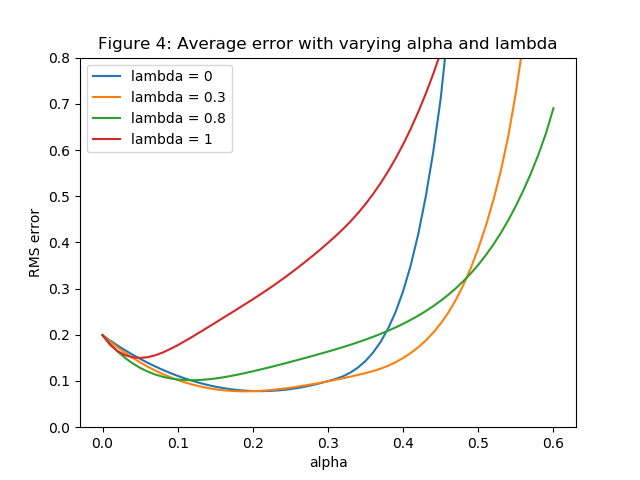
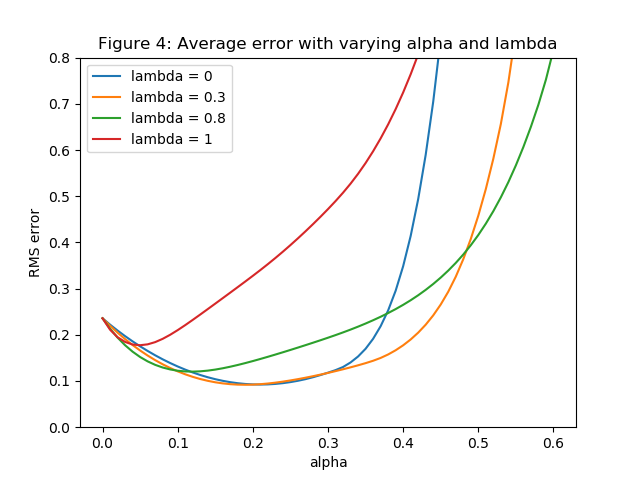
added fig 5

diff --git a/Project_1/p1.py b/Project_1/p1.py
@@ -35,9 +35,9 @@ def computeReturn(vals, i):
 		
 def generateTrainingSets(sets=100, sequences=10):
 	trainingData = []
-	for i in range(0,sets):
+	for i in range(0, sets):
 		set = []
-		for j in range(0,sequences):
+		for j in range(0, sequences):
 			ind = 3
 			sequence = [ind]
 			while True:
@@ -61,6 +61,9 @@ def printTrainingData(data):
 	print('==================== training data ====================')
 
 def computeRMSE(gt, values):
+	# exclude end (terminal) values in error calculation
+	gt = gt[1:-1]
+	values = values[1:-1]
 	return math.sqrt(sum((values - gt)**2)/len(gt))
 
 ##########################################################################################
@@ -69,15 +72,12 @@ def computeSum(subSeq, lamb, values):
 	summation = 0
 	origVal = values[subSeq[0]]
 	finalLamb = 1
-	for k in range(1, len(subSeq)-1): # exclude first and last states
+	for k in range(1, len(subSeq)-1):  # exclude first and last states
 		newVal = values[subSeq[k]]
-		#print('===='+str(subSeq)+'; '+str(origVal)+', '+str(newVal))
 		summation += (1 - lamb) * lamb**(k-1) * (newVal - origVal)
 		finalLamb -= (1 - lamb) * lamb**(k-1)
-		#print(summation)
 	terminalVal = values[subSeq[-1]]
 	summation += finalLamb * (terminalVal - origVal)
-	#print(summation)
 	return summation
 
 def computeDelta(seq, lamb, alpha, values):
@@ -99,12 +99,10 @@ def processSet_fig3(set, lamb, alpha, threshold=0.0001):
 		values += deltas
 	return values
 
-def processSet_fig4(set, lamb, alpha):
+def processSet_fig4_5(set, lamb, alpha):
 	values = np.array([0, 0.5, 0.5, 0.5, 0.5, 0.5, 1.0])
-
 	for seq in set:
 		values += computeDelta(seq, lamb, alpha, values)
-
 	return values
 
 def computeError(gt, data, lamb, alpha=0.01, fig=3):
@@ -113,8 +111,8 @@ def computeError(gt, data, lamb, alpha=0.01, fig=3):
 	for set in data:
 		if fig == 3:
 			values = processSet_fig3(set, lamb, alpha)
-		elif fig == 4:
-			values = processSet_fig4(set, lamb, alpha)
+		elif fig == 4 or fig == 5:
+			values = processSet_fig4_5(set, lamb, alpha)
 		errors = np.append(errors, computeRMSE(gt, values))
 	return np.mean(errors)
 
@@ -159,12 +157,30 @@ def getFigure4(gt, data):
 	plt.show()
 
 def getFigure5(gt, data):
-	
+	errors = []
+	lambdas = []
+	for lamb in np.arange(0.0, 1.1, 0.1):
+		min_error = [1e100]
+		for alpha in np.arange(0, 0.61, 0.01):
+			e = computeError(gt, data, lamb, alpha, fig=5)
+			if e < min_error[0]:
+				min_error = [e, lamb]
+				e = min_error
+		errors.append(min_error[0])
+		lambdas.append(min_error[1])
+
+	plt.figure()
+	plt.plot(lambdas, errors)
+	plt.title('Figure 5: Average error at best alpha value')
+	plt.xlabel('lambda')
+	plt.ylabel('RMS error using best alpha')
+	plt.show()
 
 
 np.random.seed(1)
 gt = computeGT()
 data = generateTrainingSets(100, 10)
 
-#getFigure3(gt, data)
-getFigure4(gt, data)
+# getFigure3(gt, data)
+# getFigure4(gt, data)
+# getFigure5(gt, data)
